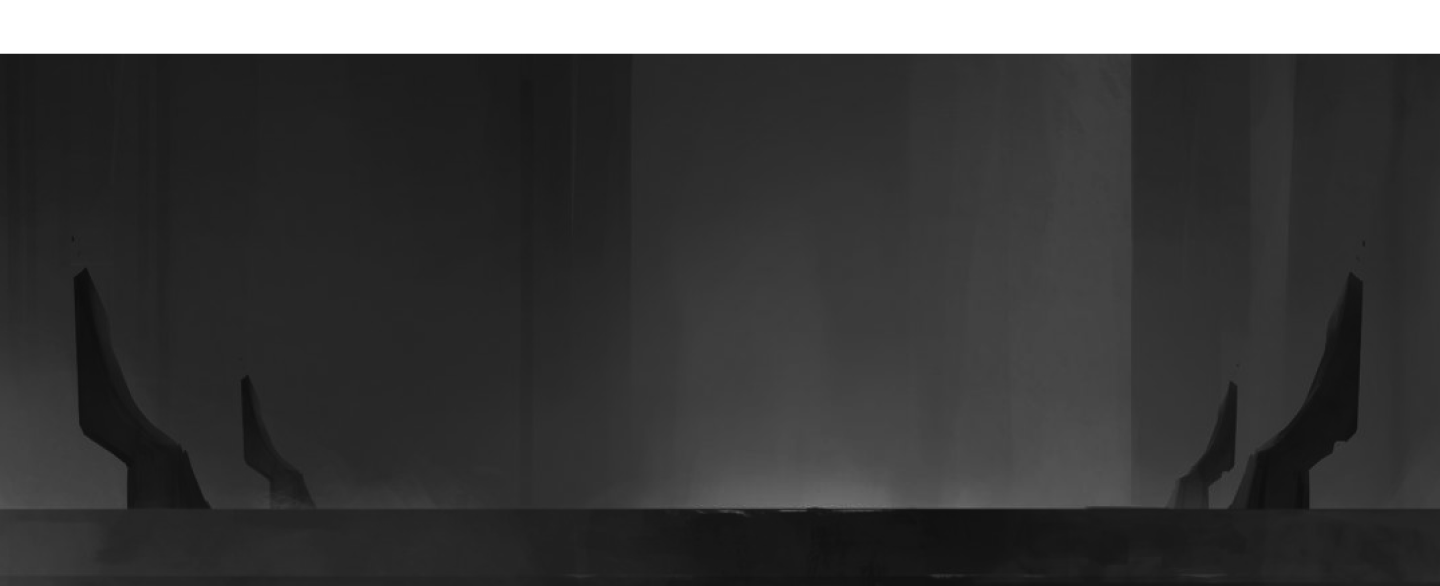
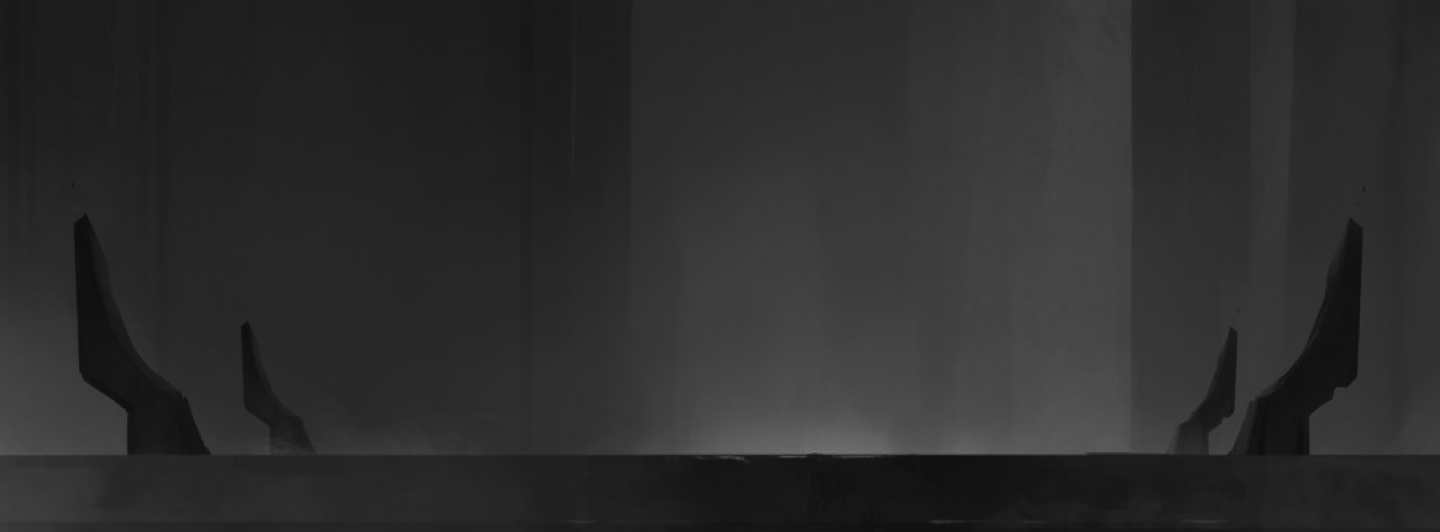
feat(benefit): background img added to benefits

diff --git a/src/components/howItWorksPage/benefits/Benefits.tsx b/src/components/howItWorksPage/benefits/Benefits.tsx
@@ -1,3 +1,4 @@
+import Image from "next/image";
 import { useState } from "react";
 import { benefitsData } from "../../../store/allData";
 import EachBenefit from "./EachBenefit";
@@ -7,8 +8,11 @@ const Benefits: React.FC = () => {
   const [activeIndex, setActiveIndex] = useState(0);
 
   return (
-    <div className="flex flex-col justify-center items-center my-20">
-      <div className="flex justify-center items-center gap-x-12 text-extera-large-medium">
+    <div className="flex flex-col justify-start items-center h-[90vh] bg-red-400 relative">
+      <div className="absolute z-0 left-0 top-0 w-full h-full">
+      <Image src={'/img/bg/bg1.png'} layout="fill" />
+      </div>
+      <div className="flex justify-center items-center gap-x-12 text-extera-large-medium z-10 mt-32">
         {benefitsData.map((data, index) => {
           return (
             <EachBenefit
@@ -20,7 +24,7 @@ const Benefits: React.FC = () => {
           );
         })}
       </div>
-      <div className="w-9/12 h-52 mt-16 flex ">
+      <div className="w-9/12 h-52 mt-16 flex z-10">
         <ul className="flex flex-col gap-y-3">
           {activeIndex !== -1 &&
             benefitsData[activeIndex].desc.map((item,index) => {

diff --git a/src/components/howItWorksPage/benefits/EachDesc.tsx b/src/components/howItWorksPage/benefits/EachDesc.tsx
@@ -14,7 +14,7 @@ const EachDesc: React.FC<props> = ({ descData, index }) => {
       animate="visible"
       variants={eachBenefitDescAni}
       custom={index}
-      className="flex gap-x-2 text-base px-16 py-8 rounded-full bg-neutral-600/30"
+      className="flex gap-x-2 text-base px-16 py-7 rounded-full bg-neutral-600/30"
     >
       <span className="mt-1">
         <FontAwesomeIcon icon={faCircleDot} />
